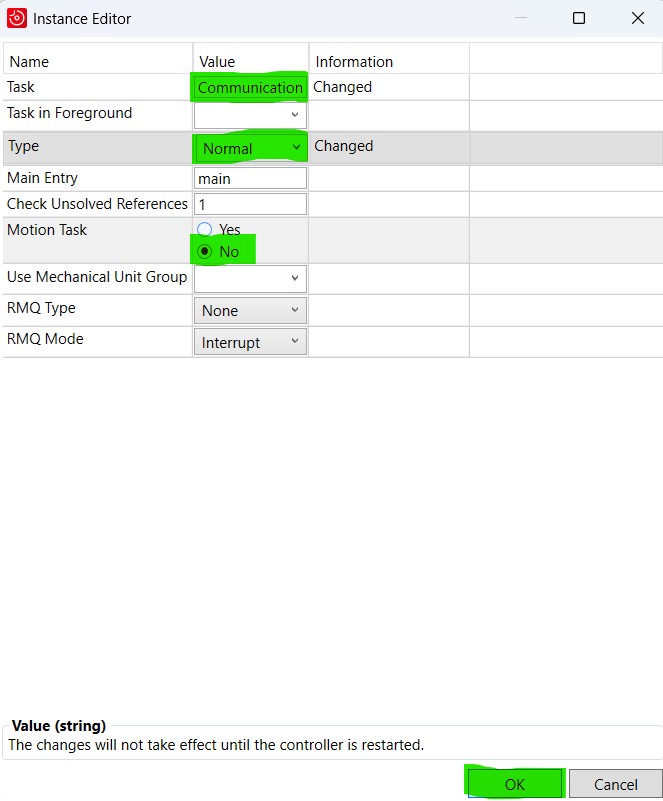
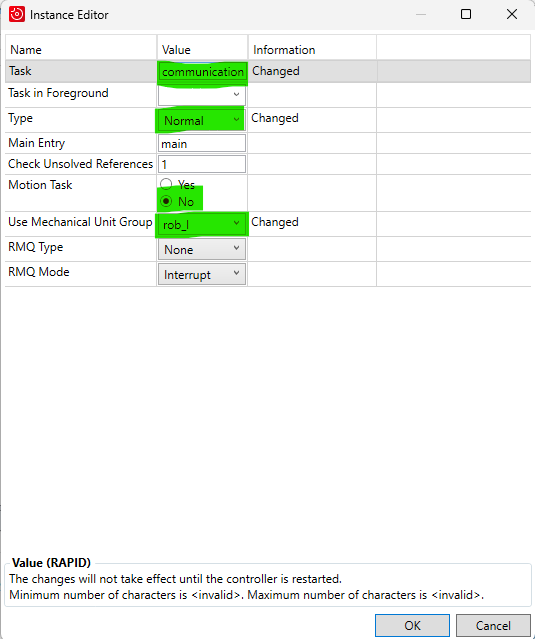
[Fredrik] Updating Readme guides

diff --git a/media/Guide/step_by_step_guide.md b/media/Guide/step_by_step_guide.md
@@ -20,11 +20,33 @@ $ git clone https://github.com/MDU-C2/MARC-HT25.git
 # Go into the repository
 $ cd MARC-HT25
 ```
-### Starting YuMi
-The YuMi may start in in system failure mode. [Follow this guide]() for instructions on how to solve this.
+
 
 ## 2. Setup
-This section goes through how to set **RobotStudio** and **Python** settings up in order to run the code in this repository.
+This section goes through how to start the robot and configure **RobotStudio** and **Python** settings in order to run the code in this repository.
+
+### Starting YuMi
+Start the YuMI by turning the power knob at the base of the robot.
+
+
+<h1 align="center">
+  <br>
+  <img src="../images/Power.jpg" alt="MARC Logo" width="400">
+  <br>
+</h1>
+
+
+>[!Note]
+ >If you are using the same YuMI IRB14000 as we did you should read how to fix the [system failure](/media/Guide/Yumi%20IRB%2014000/systemfailure.md) error. This should not be a problem though as it seems it was fixed by a person at ABB near the end of the project period.
+
+### Robot / camera-setup
+Connect the YuMi robot to the computer you are working on by following [this guide](/media/Guide/Yumi%20IRB%2014000/RobotStudioconnect.md)
+
+>[!Note]
+>If you get a [system failure](/media/Guide/Yumi%20IRB%2014000/systemfailure.md) error, it can solved by following this [link](/media/Guide/Yumi%20IRB%2014000/systemfailure.md).
+
+ Lastly set up the camera so that it can see the whole work space of the robot.
+
 ### RAPID-setup
 If the RAPID code is already on the robot, you can skip over to the <a href="#python-setup">Python-setup</a>. However, if you want to set up a simulated controller or load/modify RAPID code on the YuMi, continue with the following steps.
 
@@ -34,19 +56,14 @@ The easiest way to modify and run RAPID code is by using **RobotStudio**. You ca
 
 
 <!-- ÄNDRA TILL RÄTT FILNAMN / MAPPNAMN / TASKNAMN -->
-When you have **RobotStudio**, you need to include the programs **Communication,RightArm,LeftArm** all found in seperate folders in **\MARC-HT25\Rapid**. Make sure **RightArm** is connected to the right arm of the yumi and the **LeftArm** is connected to the left arm of the yumi. 
+When you have **RobotStudio**, you need to include the programs **Communication,Left_arm,Right_arm** all found in seperate folders in **\MARC-HT25\Rapid\Main**. Make sure **Left_arm** is loaded onto the **T_ROBL** task and **Right_arm** is loaded to  **T_ROBR** task on the yumi. 
 
 You can follow [these steps](/media/Guide/Yumi%20IRB%2014000/RobotStudio_setup.md) to configure the correct settings within **RobotStudio**.
->Note: It is possible to run the code on the YuMi through the flex pendant but RobotStudio offers a friendlier and easier to use interface.
+>[!Note]
+>It is possible to run the code on the YuMi through the flex pendant but RobotStudio offers a friendlier and easier to use interface.
 ### Python-setup
-You can find all the necessary information about the Python setup by going through [this section](/media/Guide/Python/Readme.md).
-### Robot / camera-setup
-Connect the YuMi robot to the computer you are working on by following [this guide](/media/Guide/Yumi%20IRB%2014000/RobotStudioconnect.md)
+You can find all the necessary information about the Python setup by going through [this guide](/media/Guide/Python/README.md).
 
->Note:
- If you get a [system failure](/media/Guide/Yumi%20IRB%2014000/systemfailure.md) error, it can solved by following this [link](/media/Guide/Yumi%20IRB%2014000/systemfailure.md).
-
- Lastly set up the camera so that it can see the whole work space of the robot.
 ## 3. Run the code
 Now that everything is set up correctly, you can run the system by following the steps in this section.
 
@@ -60,8 +77,8 @@ To start the robot system, select all the **Tasks** in **RobotStudio**, reset th
 The system should start and wait for a connection with the vision system.
 
 For more indepth intstructions follow the [start RAPID guide](/media/Guide/Yumi%20IRB%2014000/how_to_start_rapid.md).
-
->Note: If the connection is lost during runtime, the system may need to be restarted.
+>[!Note]
+>If the connection is lost during runtime, the system may need to be restarted.
 
 
 

diff --git a/media/Guide/Yumi IRB 14000/systemfailure.md b/media/Guide/Yumi IRB 14000/systemfailure.md
@@ -3,13 +3,14 @@ The following sections about system failure is only if you are are using the sam
 
 When you start the robot you will most likely get the error "SMB communication failure" on the FlexPendant (the wired controller) and a system failure. System failure will prevent you from doing most things with the robot. To get out of this you will need to go to Restart -> advanced -> Shutdown main computer, then turn off the power knob. Turn on the power knob again and robot (controller) should start without system failure. However you will probably have to recalibrate the right arm. (Click the image play the video).
 
->**Note:** To calibrate the right arm you will have to [align all the joints](/media/documents/RAPID%20Manuals/Yumi%20Rev%20counter%20update.pdf) on the right arm with the calibration marks. After you have done that start the calibration program on the FlexPendant, all joints should be selected, just press next.
+>[!Note]
+>To calibrate the right arm you will have to [align all the joints](/media/documents/RAPID%20Manuals/Yumi%20Rev%20counter%20update.pdf) on the right arm with the calibration marks. After you have done that start the calibration program on the FlexPendant, all joints should be selected, just press next.
 
 
 [![IMAGE ALT TEXT HERE](http://img.youtube.com/vi/O1MPd2k_ZHU/0.jpg)](http://www.youtube.com/watch?v=O1MPd2k_ZHU)
 
-
->**Note:** If system failure persists despite following the above method. Try to "Revert to last auto saved" instead of "Shutdown main computer". This should remove the system failure and the need to calibrate the right arm.
+>[!Note]
+>If system failure persists despite following the above method. Try to "Revert to last auto saved" instead of "Shutdown main computer". This should remove the system failure and the need to calibrate the right arm.
 
 
 

diff --git a/media/Guide/Yumi IRB 14000/RobotStudio_setup.md b/media/Guide/Yumi IRB 14000/RobotStudio_setup.md
@@ -19,11 +19,11 @@ The RAPID code can be run together with the vision system in a simulated environ
 ### RobotWare
 Firstly, make sure to install **RobotWare** or make sure that the correct version is installed. First click the **Add-Ins** tab at the top of the screen and select the following:
 
-1. RobotApps
-2. Gallery
-3. RobotWare for IRC5
-4. Select version (Latest version should work)
-5. Add
+
+1. Gallery
+2. RobotWare for IRC5
+3. Select version (Latest version should work)
+4. Add
 
 ![RobotWare](/media/images/RobotWare.png)
 
@@ -62,6 +62,7 @@ To add a task, first open the **Controller Configuration** in the active station
 
 4. Enter a name, for example "Communication"
 5. Change the type to **Normal**
+6. Change Use Mechanical Unit Group to **rob_l**
 6. Press **OK**
 
 ![TaskSettings](/media/images/TaskSettings.png)
@@ -96,5 +97,8 @@ The following instructions show how to load the RAPID code from this repository:
 
 All of the necessary modules should now be loaded to the **Communication** task.
 
-The same procedure is done for the left and right arm tasks where **Movement_left** and **Movement_right** is loaded to each respectively.
+The same procedure is done for the T_ROB_L and T_ROB_R arm tasks where **\MARC-HT25\RAPID\Main\Left_arm -> Movement_progress** and **\MARC-HT25\RAPID\Main\Right_arm -> Movement_progress** is loaded to each task respectively.
 
+When everything is lodaded it should look something like this:
+
+![loadedmodules](/media/images/loadedmodules.png)

diff --git a/media/Guide/Yumi IRB 14000/RobotStudioconnect.md b/media/Guide/Yumi IRB 14000/RobotStudioconnect.md
@@ -4,8 +4,14 @@ Start by connecting the computer with RobotStudio to the YuMI through the servic
 ![service port](/media/images/ServicePort.jpg)
 
 
-+ Open RobotStudio and press **One Click Connect** to connect to the robot. Use the defaults and continue.
++ Open RobotStudio and press **One Click Connect** to connect to 
+the robot. Use the defaults and continue.
 
-![connect](/media/images/connect.png)
+
+![connect](/media/images/Oneclickconnect.png)
+![defaultuser](/media/images/defaultuser.png)
 
 + Through the FlexPendant set the YuMi to **auto mode** and in the same tab as before in RobotStudio (controller), click **Request Write Access** to be able to edit files on the YuMI's controller.
+
+![automode](/media/images/automode.png)
+![requestwrite](/media/images/requestwrite.png)

diff --git a/media/Guide/Yumi IRB 14000/EGM_setup.md b/media/Guide/Yumi IRB 14000/EGM_setup.md
@@ -46,6 +46,6 @@ First extend the Configuration tab in the active station and do the following:
 
 7. Remote port number: **6510**
 
-8. Clocl **OK**
+8. Click **OK**
 
 ![UDPsettings](/media/images/UDPsettings.png)
